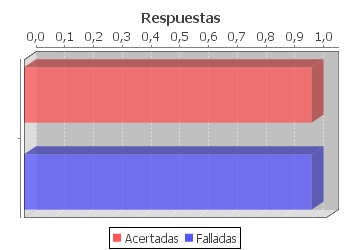
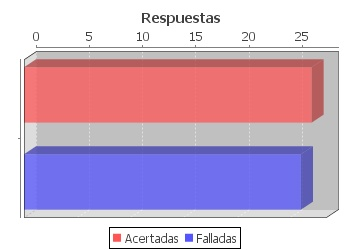
Añadido holita

diff --git a/JavaApplication10/src/CodigoFuente/Categorias.java b/JavaApplication10/src/CodigoFuente/Categorias.java
@@ -19,11 +19,19 @@ public class Categorias extends javax.swing.JFrame {
      * Creates new form Categorias
      */
     public Categorias() {
+        int[] test = new int[3];
+   
         g1=new Graficos();
-        g1.generarGrafico(1, 1, "anime");
-        g1.generarGrafico(1, 1, "lol");
-        g1.generarGrafico(1, 1, "general");
-        g1.generarGrafico(1, 1, "wow");
+        p1=new Principal();
+        test=p1.pedirEstadisticas(0);
+        g1.generarGrafico(test[0], test[1], "general");
+        test=p1.pedirEstadisticas(1);
+        g1.generarGrafico(test[0], test[1], "lol");
+        test=p1.pedirEstadisticas(2);
+        g1.generarGrafico(test[0], test[1], "anime");
+        test=p1.pedirEstadisticas(3);
+        g1.generarGrafico(test[0], test[1], "wow");
+       
         initComponents();
     }
 
